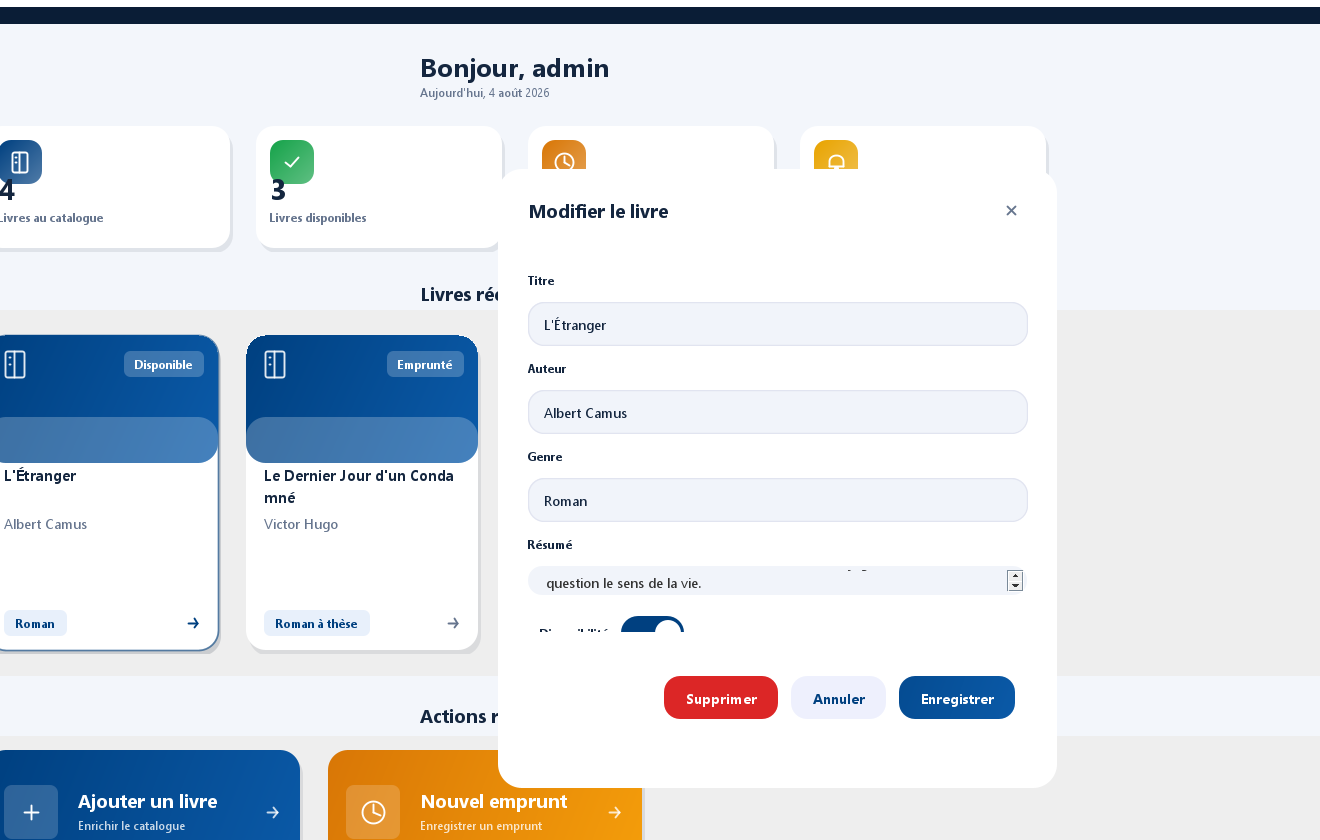
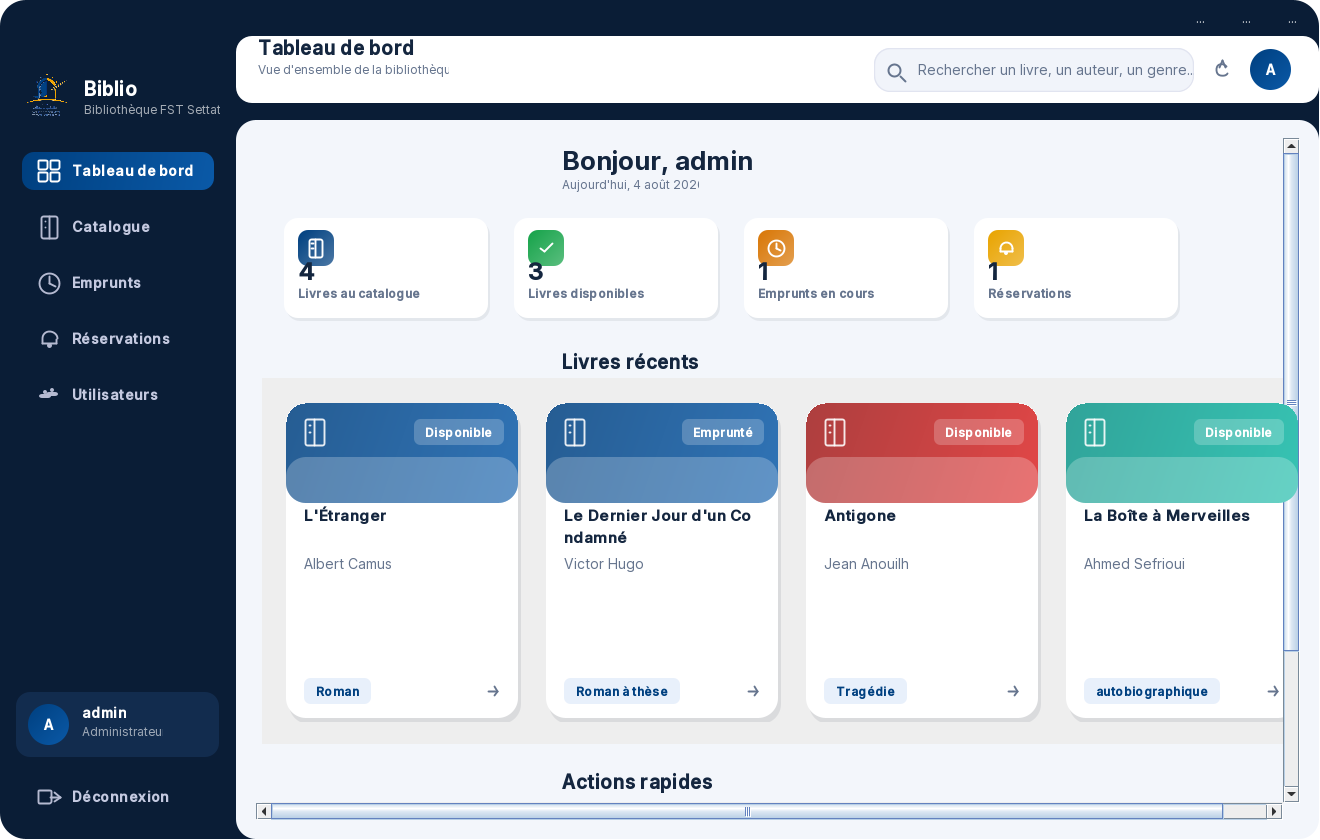
Update README with new real screenshots, fix install-user script and verify installation instructions

diff --git a/src/GenerateScreenshots.java b/src/GenerateScreenshots.java
@@ -1,0 +1,89 @@
+import javax.swing.*;
+import java.awt.*;
+import java.awt.image.BufferedImage;
+import javax.imageio.ImageIO;
+import java.io.File;
+import java.lang.reflect.Method;
+
+public class GenerateScreenshots {
+    public static void main(String[] args) {
+        System.setProperty("file.encoding", "UTF-8");
+        System.setProperty("java.awt.headless", "false");
+        try {
+            System.out.println("Initializing Database schema & seeds...");
+            try {
+                DatabaseConnection.ensureSchema();
+                DatabaseConnection.seedIfEmpty();
+            } catch (Exception e) {
+                System.out.println("Database init exception: " + e.getMessage());
+            }
+
+            File dir = new File("screenshots");
+            if (!dir.exists()) dir.mkdirs();
+
+            // 1. Capture Login Screen
+            System.out.println("Capturing 01-login.png...");
+            LoginScreen login = new LoginScreen();
+            login.pack();
+            login.setSize(1020, 660);
+            login.setLocationRelativeTo(null);
+            login.setVisible(true);
+            Thread.sleep(400);
+
+            captureWindow(login, "screenshots/01-login.png", 1020, 660);
+            login.setVisible(false);
+            login.dispose();
+
+            // 2. Capture Admin Main GUI pages
+            Admin admin = new Admin(1, "admin", "admin123", 612345678, "admin@biblio.ma", null, null);
+            BiblioGUI gui = new BiblioGUI(admin);
+            gui.pack();
+            gui.setSize(1320, 840);
+            gui.setLocationRelativeTo(null);
+            gui.setVisible(true);
+            Thread.sleep(400);
+
+            Method showPage = BiblioGUI.class.getDeclaredMethod("showPage", String.class);
+            showPage.setAccessible(true);
+
+            String[] pages = {"dashboard", "catalogue", "emprunts", "reservations", "utilisateurs"};
+            String[] files = {"02-dashboard.png", "03-catalogue.png", "04-emprunts.png", "05-reservations.png", "06-utilisateurs.png"};
+
+            for (int i = 0; i < pages.length; i++) {
+                System.out.println("Capturing " + files[i] + "...");
+                showPage.invoke(gui, pages[i]);
+                gui.revalidate();
+                gui.repaint();
+                Thread.sleep(300);
+                captureWindow(gui, "screenshots/" + files[i], 1320, 840);
+            }
+
+            gui.setVisible(false);
+            gui.dispose();
+            System.out.println("All screenshots successfully generated!");
+            System.exit(0);
+
+        } catch (Exception e) {
+            e.printStackTrace();
+            System.exit(1);
+        }
+    }
+
+    private static void captureWindow(JFrame frame, String path, int width, int height) throws Exception {
+        Container comp = frame.getContentPane();
+        comp.setSize(width, height);
+        comp.doLayout();
+        comp.validate();
+        comp.repaint();
+        Thread.sleep(100);
+
+        BufferedImage image = new BufferedImage(width, height, BufferedImage.TYPE_INT_ARGB);
+        Graphics2D g2d = image.createGraphics();
+        g2d.setRenderingHint(RenderingHints.KEY_ANTIALIASING, RenderingHints.VALUE_ANTIALIAS_ON);
+        g2d.setRenderingHint(RenderingHints.KEY_TEXT_ANTIALIASING, RenderingHints.VALUE_TEXT_ANTIALIAS_ON);
+        comp.paint(g2d);
+        g2d.dispose();
+
+        ImageIO.write(image, "png", new File(path));
+    }
+}

diff --git a/src/DatabaseConnection.java b/src/DatabaseConnection.java
@@ -135,12 +135,9 @@ public class DatabaseConnection {
     // Ajoute des données de démonstration si la base est vide.
     public static void seedIfEmpty() throws SQLException {
         if (getLivres().isEmpty()) {
-            insertLivre(new Livre(1, "La Boîte à Merveilles", "Ahmed Sefrioui", "autobiographique", "Ce roman raconte l'enfance de l'auteur à Fès, au Maroc.", true));
-            insertLivre(new Livre(2, "Antigone", "Jean Anouilh", "Tragédie", "Antigone défie le roi Créon en enterrant son frère Polynice.", true));
-            insertLivre(new Livre(3, "Le Dernier Jour d'un Condamné", "Victor Hugo", "Roman à thèse", "Un condamné à mort réfléchit à l'inhumanité de la peine de mort.", false));
-            insertLivre(new Livre(4, "L'Étranger", "Albert Camus", "Roman", "Meursault, indifférent, commet un meurtre et est jugé.", true));
-            insertLivre(new Livre(5, "Les Misérables", "Victor Hugo", "Roman historique", "La vie de Jean Valjean dans la France du XIXe siècle.", true));
-            insertLivre(new Livre(6, "Harry Potter à l'école des sorciers", "J.K. Rowling", "Fantastique", "Le jeune sorcier découvre Poudlard.", false));
+            for (Livre b : SyncBooks.getAllBooks()) {
+                insertLivre(b);
+            }
         }
         // S'assure que les comptes de démonstration existent toujours.
         boolean hasDemoAdmin = false;

diff --git a/src/gui/Theme.java b/src/gui/Theme.java
@@ -123,19 +123,29 @@ public final class Theme {
     }
 
     static class ScrollUI extends BasicScrollBarUI {
+        @Override
+        public void installUI(JComponent c) {
+            super.installUI(c);
+            if (this.decrButton == null) this.decrButton = createDecreaseButton(NORTH);
+            if (this.incrButton == null) this.incrButton = createIncreaseButton(SOUTH);
+        }
+
+        @Override
         protected void configureScrollBarColors() {
             this.thumbColor = new Color(150, 158, 190);
         }
 
+        @Override
         protected JButton createDecreaseButton(int o) {
             JButton b = new JButton();
-            b.setPreferredSize(new Dimension());
+            b.setPreferredSize(new Dimension(0, 0));
             return b;
         }
 
+        @Override
         protected JButton createIncreaseButton(int o) {
             JButton b = new JButton();
-            b.setPreferredSize(new Dimension());
+            b.setPreferredSize(new Dimension(0, 0));
             return b;
         }
 

diff --git a/src/gui/Toast.java b/src/gui/Toast.java
@@ -5,6 +5,7 @@ import javax.swing.SwingUtilities;
 import javax.swing.Timer;
 import java.awt.Color;
 import java.awt.Component;
+import java.awt.Dimension;
 import java.awt.Point;
 import java.awt.Window;
 

diff --git a/README.md b/README.md
@@ -66,6 +66,12 @@ postgresql://utilisateur:motdepasse@host/neondb?sslmode=require
 
 ## Captures d'écran
 
+### Connexion
+
+![Connexion](screenshots/01-login.png)
+
+Interface de connexion sécurisée avec branding institutionnel FST Settat et accès par rôle (Admin / Lecteur).
+
 ### Tableau de bord
 
 ![Tableau de bord](screenshots/02-dashboard.png)
